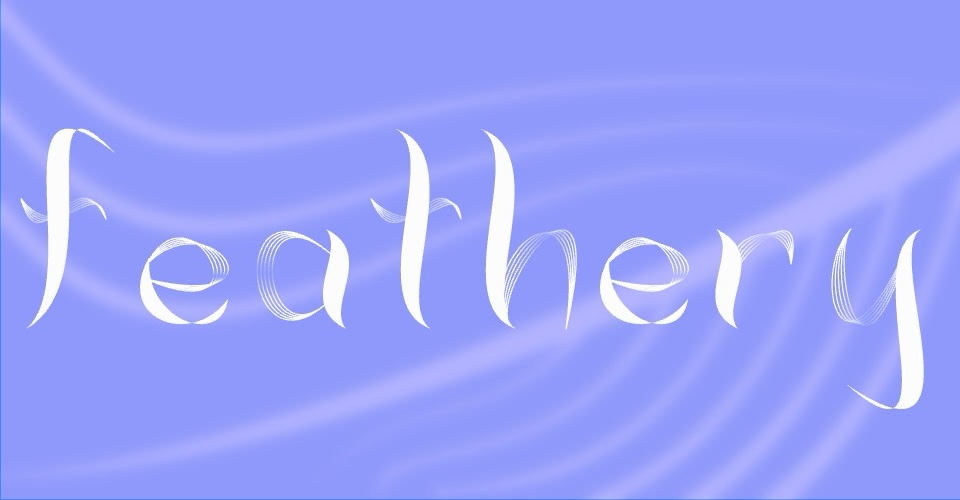
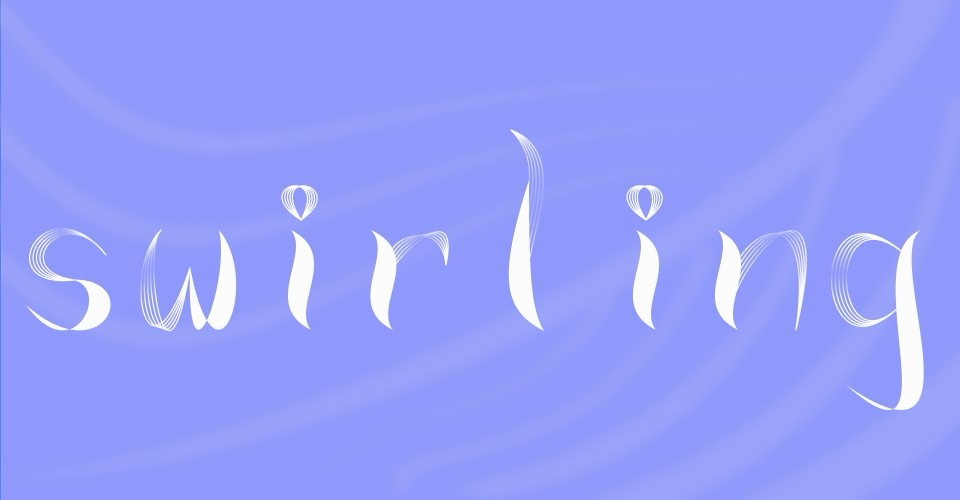
Updating read me

diff --git a/draw_letters.js b/draw_letters.js
@@ -1,13 +1,9 @@
 /* these are optional special variables which will change the system */
-var systemBackgroundColor = "#8F99FB";
+var systemBackgroundColor = "#8F99FB"; // periwinkle background
 var systemLineColor = "#D3D3D3";
 var systemBoxColor = "#C73869";
 
 /* internal constants */
-const secondSpacing = 5; // space between first outer bezier and second bezier
-const thirdSpacing = 10; // space between first outer bezier and third bezier 
-const fourthSpacing = 15; // space between first outer bezier and fourth bezier 
-const fifthSpacing = 20; // space between first outer bezier and fifth bezier
 const solidSpacing = 15; // space from centre of solid bezier shape
 
 /*
@@ -29,7 +25,6 @@ function drawLetter(letterData) {
 
 /* lined bezier curves */
 function lined(letterData){
-
   // lined bezier parameters
   let opacity = letterData["opacity"]; 
   let linedX1 = letterData["linedVar1"]; // first anchor x 
@@ -53,21 +48,19 @@ function lined(letterData){
   grad.addColorStop(.6, white25);
   grad.addColorStop(1, white);
 
-  push();
-  this.drawingContext.strokeStyle = grad; // gradient stroke colour
+  // space from outer bezier curve
+  let spacingArray = [0, 5, 10, 15, 20];
+
   strokeWeight(1.25); // stroke weight
   noFill(); // no fill
-  // first(outer) bezier
-  bezier(linedX1, linedY1, linedX2, linedY2, linedX3, linedY3, linedX4, linedY4);
-  // second bezier
-  bezier(linedX1, linedY1, linedX2 + secondSpacing, linedY2 + secondSpacing, linedX3 + secondSpacing, linedY3 - secondSpacing, linedX4, linedY4);
-  // third bezier
-  bezier(linedX1, linedY1, linedX2 + thirdSpacing, linedY2 + thirdSpacing, linedX3 + thirdSpacing, linedY3 - thirdSpacing, linedX4, linedY4);
-  // fourth bezier
-  bezier(linedX1, linedY1, linedX2 + fourthSpacing, linedY2 + fourthSpacing, linedX3 + fourthSpacing, linedY3 - fourthSpacing, linedX4, linedY4);
-  // fifth bezier
-  bezier(linedX1, linedY1, linedX2 + fifthSpacing, linedY2 + fifthSpacing, linedX3 + fifthSpacing, linedY3 - fifthSpacing, linedX4, linedY4);
-  pop();
+  this.drawingContext.strokeStyle = grad; // gradient stroke colour
+
+  // bezier curves
+  for (let i = 0; i <spacingArray.length; i++){
+    push();
+    bezier(linedX1, linedY1, linedX2 + spacingArray[i], linedY2 + spacingArray[i], linedX3 + spacingArray[i], linedY3 - spacingArray[i], linedX4, linedY4);
+    pop();
+  }
 }
 
 /* solid bezier curve */
@@ -179,19 +172,20 @@ function interpolate_letter(percent, oldObj, newObj) {
 }
 
 var swapWords = [
-  "TWISTING",
-  "FEATHERY",
-  "WHISPERS",
   "SWIRLING",
+  "TWISTING",
   "!BREEZE!",
   "SPIRALED",
+  "TWIRLING",
+  "AIRINESS",
   "!CLOUDY!",
   "WHIRLING",
   "!FLURRY!",
-  "TWIRLING",
+  "FEATHERY",
+  "WHISPERS",
   "FLOATING",
+  "WISPILY!",
   "DRIFTING",
-  "CYCLONE!",
   "!034689!"
 ]
 

diff --git a/index.html b/index.html
@@ -7,21 +7,21 @@
     <script language="javascript" type="text/javascript" src="exhibition.js"></script>
 
   <meta
-    name="Letterforms by UWCC"
-    content="Code driven letterforms."
+    name="Swirling by Hayley Chung"
+    content="Swirling breeze letterforms."
   />
-  <meta name="description" content="Code driven letterforms" />
-  <meta property="og:title" content="Letterforms by UWCC" />
+  <meta name="description" content="Swirling breeze letterforms." />
+  <meta property="og:title" content="Swirling by Hayley Chung" />
   <meta property="og:type" content="website" />
-  <meta property="og:url" content="https://uwcc.github.io/23.MDDN242_Parametric_Design/" />
-  <meta property="og:image" content="https://uwcc.github.io/23.MDDN242_Parametric_Design/preview.jpg" />
+  <meta property="og:url" content="https://25-mddn242.github.io/letterforms-hayley-c/" />
+  <meta property="og:image" content="https://25-mddn242.github.io/letterforms-hayley-c/preview.jpg" />
   <meta property="og:image:width" content="960" />
   <meta property="og:image:height" content="500" />
-  <meta property="og:description" content="Code driven letterforms" />
+  <meta property="og:description" content="Swirling breeze letterforms" />
   <meta name="twitter:card" content="summary_large_image" />
-  <meta name="twitter:creator" content="@uwcc" />
-  <meta name="twitter:title" content="Letterforms by UWCC" />
-  <meta name="twitter:description" content="Code driven letterforms" />
+  <meta name="twitter:creator" content="@" />
+  <meta name="twitter:title" content="Swirling by Hayley Chung" />
+  <meta name="twitter:description" content="Swirling breeze letterforms" />
   <meta name="twitter:image" content="https://uwcc.github.io/23.MDDN242_Parametric_Design/preview.jpg" />
 
 </head>

diff --git a/exhibition.js b/exhibition.js
@@ -216,21 +216,20 @@ function draw () {
 
   let backgroundArray = [
     [0, 0, 250, 300, 300, 0, 1000, 100, 300, 10, 250, 310, 0, 25],
-    [0, 100, 250, 400, 400, 25, 950, 150, 400, 35, 250, 410, 0, 125],
-    [0, 200, 250, 500, 500, 50, 850, 200, 500, 60, 250, 510, 0, 225],
-    [960, 100, 840, 200, 200, 500, -50, 475, 240, 510, 840, 240, 960, 150],
+    [0, 125, 250, 400, 400, 25, 900, 150, 400, 35, 250, 410, 0, 150],
+    [0, 250, 250, 500, 500, 50, 800, 200, 500, 60, 250, 510, 0, 275],
+    [900, 0, 840, 200, 200, 500, -50, 475, 240, 510, 840, 240, 950, 0],
     [600, 300, 500, 450, 400, 370, 300, 500, 400, 375, 500, 455, 615, 300],
-    [675, 275, 575, 500, 375, 420, 375, 500, 400, 425, 575, 505, 690, 275],
-    [750, 250, 650, 550, 350, 470, 450, 500, 400, 475, 650, 555, 760, 250],
-    [825, 200, 725, 600, 325, 520, 525, 500, 400, 525, 725, 605, 835, 200],
-    [900, 150, 800, 650, 300, 570, 600, 500, 400, 575, 800, 655, 910, 150],
-    [975, 100, 875, 700, 275, 620, 675, 500, 400, 625, 875, 705, 985, 100],
-  ]
+    [700, 250, 600, 500, 350, 420, 400, 500, 400, 425, 600, 505, 715, 250],
+    [825, 150, 725, 550, 275, 470, 525, 500, 400, 475, 725, 555, 840, 150],
+    [950, 100, 875, 600, 200, 520, 675, 500, 400, 525, 875, 605, 965, 100],
+    [1100, 50, 1025, 650, 125, 570, 825, 500, 400, 575, 1025, 655, 1115, 100]
+  ];
 
   push();
   colorMode(HSB, 360, 100, 100, 100);
   noStroke();
-  fill(240, 30, 100, 100);
+  fill(234, 38, 98, 100);
   
   for (let i = 0; i < backgroundArray.length; i++){
     let vertexX = backgroundArray[i][0];

diff --git a/README.md b/README.md
@@ -2,12 +2,13 @@
 [![Open in Visual Studio Code](https://classroom.github.com/assets/open-in-vscode-2e0aaae1b6195c2367325f4f02e2d04e9abb55f0b24a779b69b11b9e10269abc.svg)](https://classroom.github.com/online_ide?assignment_repo_id=18842563&assignment_repo_type=AssignmentRepo)
 ## MDDN 242 2025 Assignment 2
 
-### TITLE
-Description
+### Swirling
+#### By Hayley Chung
 
-The characters in my alphabet are composed of bezier curves and shapes. The solid shape creates the dominant downstroke, and the lined shape forms the secondary part.
+Swirling is a set of letterforms created using parameterized bezier curves and shapes, to create an airy and whimsical typeface that is reminiscent of a swirling breeze. The letters are swept away by the wind in a twisting motion to be replaced by a new letter.
 
-All together, the typeface is formed from 17 parameters. The beziers' anchor points and control points are all controlled by parameters, totalling 16 parameters for the letter shapes. For the purpoose of the interpolation, I have used a parameter for the alpha value to control the opacty. 
+#### Technical notes
+Swirling is formed from 17 parameters. The eight anchor point and eight control points to determine the letterforms bezier shapes, as well as the alpha value to control the letters' opacity.
 
 The 17 parameters per letter are:
 * 'opacity': Alpha value
@@ -28,8 +29,7 @@ The 17 parameters per letter are:
 * 'solidVar7': Solid bezier second anchor point X
 * 'solidVar8': Solid bezier second anchor point Y
 
-The letters interpolate through a twisting motion, making the old letter appear to be whisked away before forming the new letter.
-It is worth noting that interaction.html does not highlight the complete interpolation of the lined bezier curves, as the  
+Note: Interaction.html does not highlight the complete interpolation of the lined bezier curves, as the letters reach the target coordinates at 33% and 66%. Therefore, the interpolation is is not shown to its full extent.
 
 ### Process
 
@@ -55,7 +55,7 @@ I returned to the sketch's code and altered it to create a  font similar to mode
 
 <img src = "/assets/linedSolid.png" alt = "Solid and lined brush calligraphy font" width = "500">
 
-Unssure which font to continue developing, I tried a clashing colour palette to help myself decide. 
+Unsure which font to continue developing, I tried a clashing colour palette to help myself decide. 
 I chose to continue with the brush calligraphy font, as I thought that this font looks better regardless of the colour palette. This style also allows me to better refine each of the letters to create a readable and cohesive typeface.
 
 <img src = "/assets/blueOrangeBrush.png" alt = "Brushstroke font in a orange and blue colour palette" width = "500">
@@ -99,9 +99,23 @@ After creating the letterform shapes and interpolation, I thought
 
 I wanted to create more depth within the letters themselves. so I added a gradient, referencing [odmundeetgen's gradient lines code](https://editor.p5js.org/odmundeetgen/sketches/qqmp0fVSK). I found that this gradient effect worked better for the lined beziers when there were five thinner curves rather than the three.
 
-I explored some colour palette feedback with a teal, pink, and purple font, taking inspiration from hummingbird feathers.
+From the feedback I received I explored many different colour palettes.
+
+* A grey blue background: Quite dull
+<img src = "/assets/greyBlue.jpg" alt = "Grey blue background with twisting font" width = "500">
+
+* A bright blue background: Felt a bit unnatural
+<img src = "/assets/brightBlue.jpg" alt = "Bright blue background with twisting font" width = "500">
+
+* A mint green background with teal, pink, and purple font: Gradient didn't always show properly
 <img src = "/assets/featherColour.jpg" alt = "Teal, pink, and purple feather font" width = "500">
 
-<img src = "/assets/withBackground.jpg" alt = "Slower twisting blue letters on a cream background" width = "500">
+* Medium blue background with background decoration: Felt quite corporate
+<img src = "/assets/brightBlue.jpg" alt = "Medium blue background with twisting font" width = "500">
+
+The final colour palette I chose is a white font on a periwinkle background, as the muted tone matched the airy and calming shape of the letters, while the purple tint added a sense of whimsy and playfulness.
+
+<img src = "/assets/swirling.jpg" alt = "Periwinkle background with twisting font" width = "500">
+
 
 
